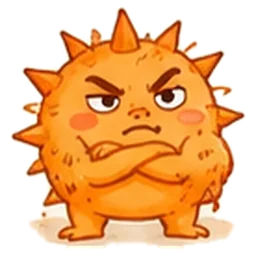
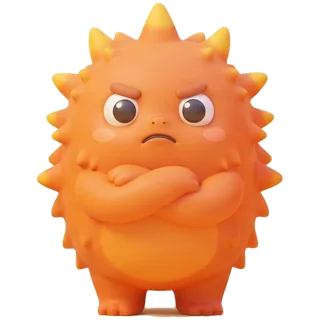
v11.2：不服氣怪獸換成 3D 新圖
Claude-Session: https://claude.ai/code/session_01CEkvYQrBkbWEs5gG6BXqD9

diff --git a/index.html b/index.html
@@ -771,7 +771,7 @@ const moodOf=n=>[1,1,2,3,4,4][n]||3;
 const BADGE={angry:['🚦','紅綠燈徽章','生氣時會先停一下'],sad:['☂','小雨傘','難過時會照顧自己'],defiant:['🏅','進步獎牌','跟昨天的自己比'],
   stuck:['🚩','一步一步旗','把難事切成小步驟'],scared:['🛡','勇氣盾牌','先試一小步'],wronged:['💬','說話泡泡','說出自己的想法']};
 /* 已換成 3D 新圖、有 4 階段成長圖的怪獸（徽章已畫在圖裡，不再疊 emoji） */
-const GROWN=new Set(['angry','sad']);
+const GROWN=new Set(['angry','sad','defiant']);
 const IMG=(k,st)=>`img/${k}${st}.webp`;
 function nextOf(xp){const l=lvOf(xp);if(l>=LEVELS.length)return {pct:100,need:0};const a=LEVELS[l-1],b=LEVELS[l];return {pct:Math.round((xp-a)/(b-a)*100),need:b-xp}}
 const HEROES={fox:{name:'小狐狸',c:'#F39A4B'},bear:{name:'小熊',c:'#B07A52'},rabbit:{name:'小兔子',c:'#E9DDF2'},cat:{name:'小貓',c:'#9AA3B5'}};
